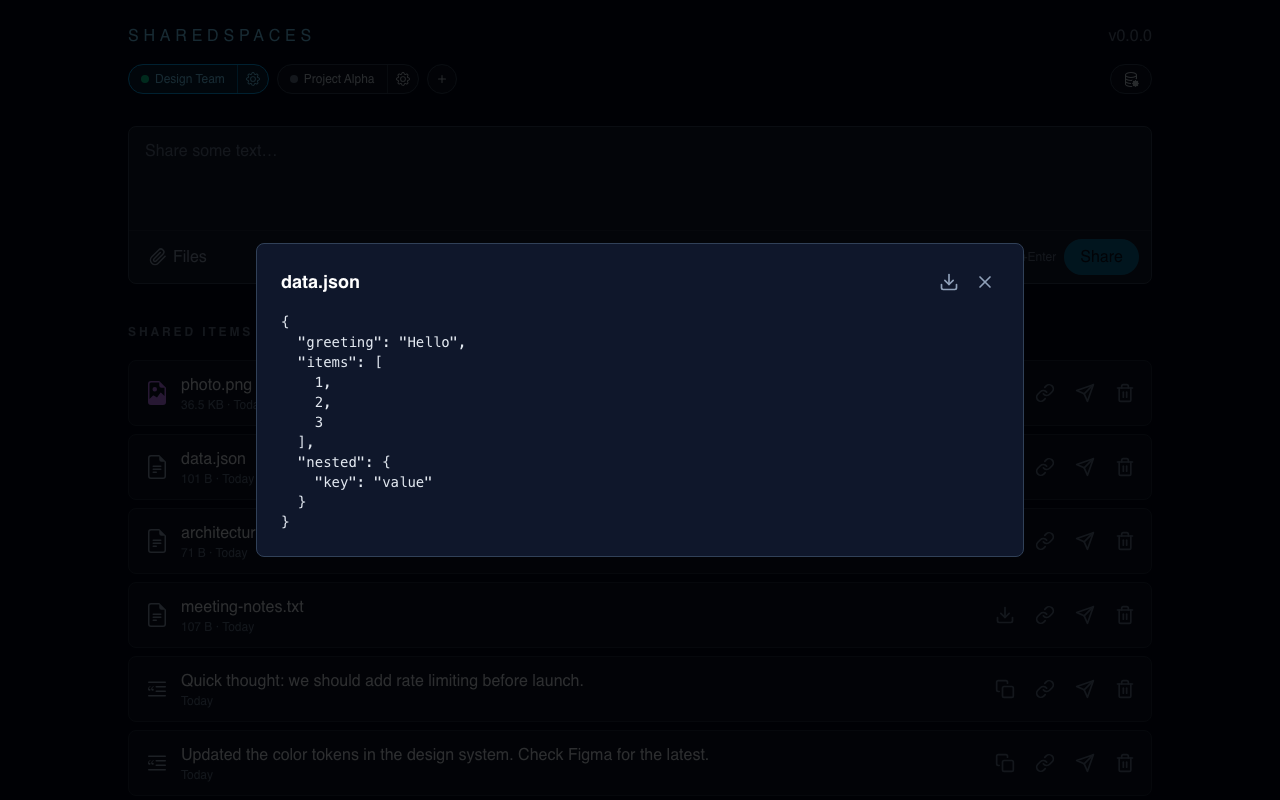
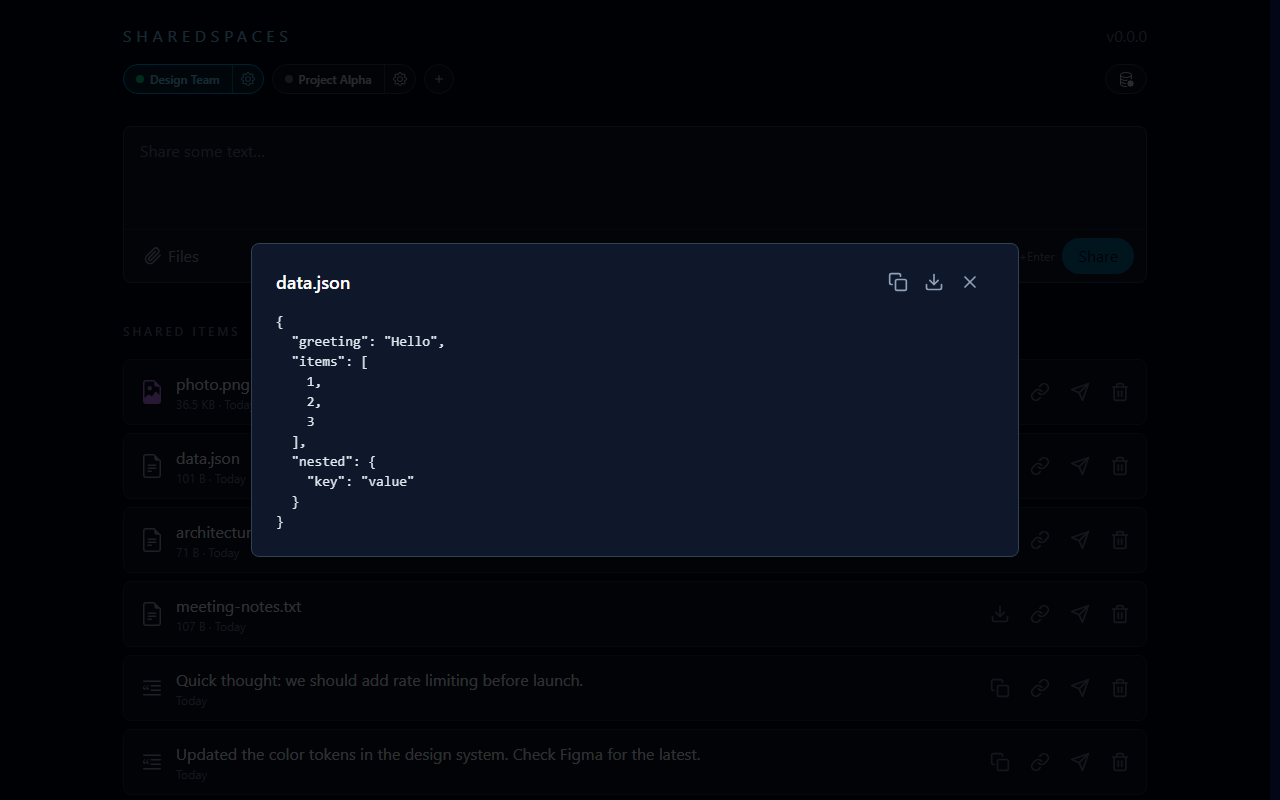
feat(client): add copy content button to text file preview modal

diff --git a/src/SharedSpaces.Client/src/features/space-view/space-view.ts b/src/SharedSpaces.Client/src/features/space-view/space-view.ts
@@ -189,6 +189,7 @@ export class SpaceView extends BaseElement {
   @state() private filePreviewText: string | null = null;
   @state() private filePreviewLoading = false;
   @state() private filePreviewError = '';
+  @state() private filePreviewTextCopied = false;
   @state() private shareModalItem: SpaceItemResponse | null = null;
   @state() private shareModalLinks: SharedLinkResponse[] = [];
   @state() private shareModalLoading = false;
@@ -1933,6 +1934,20 @@ export class SpaceView extends BaseElement {
     this.filePreviewText = null;
     this.filePreviewLoading = false;
     this.filePreviewError = '';
+    this.filePreviewTextCopied = false;
+  };
+
+  private handleCopyTextPreview = async () => {
+    if (!this.filePreviewText) return;
+    try {
+      await navigator.clipboard.writeText(this.filePreviewText);
+      this.filePreviewTextCopied = true;
+      setTimeout(() => {
+        this.filePreviewTextCopied = false;
+      }, 1500);
+    } catch {
+      // Clipboard API may fail in insecure contexts; silently ignore.
+    }
   };
 
   private openTransferModal(item: SpaceItemResponse) {
@@ -3219,6 +3234,20 @@ export class SpaceView extends BaseElement {
               ${this.filePreviewItem.content}
             </h3>
             <div class="flex shrink-0 items-center gap-2">
+              ${this.filePreviewType === 'text' && this.filePreviewText != null
+                ? html`
+                    <button
+                      @click=${this.handleCopyTextPreview}
+                      class="rounded p-1 text-slate-400 transition hover:text-white"
+                      title=${this.filePreviewTextCopied ? 'Copied!' : 'Copy content'}
+                      aria-label=${this.filePreviewTextCopied ? 'Copied to clipboard' : 'Copy file content to clipboard'}
+                    >
+                      ${this.filePreviewTextCopied
+                        ? html`<svg xmlns="http://www.w3.org/2000/svg" width="20" height="20" viewBox="0 0 24 24" fill="none" stroke="currentColor" stroke-width="2" stroke-linecap="round" stroke-linejoin="round" class="text-emerald-400"><polyline points="20 6 9 17 4 12"></polyline></svg>`
+                        : html`<svg xmlns="http://www.w3.org/2000/svg" width="20" height="20" viewBox="0 0 24 24" fill="none" stroke="currentColor" stroke-width="2" stroke-linecap="round" stroke-linejoin="round"><rect x="9" y="9" width="13" height="13" rx="2" ry="2"></rect><path d="M5 15H4a2 2 0 0 1-2-2V4a2 2 0 0 1 2-2h9a2 2 0 0 1 2 2v1"></path></svg>`}
+                    </button>
+                  `
+                : nothing}
               <button
                 @click=${() => this.handleDownload(this.filePreviewItem!)}
                 class="rounded p-1 text-slate-400 transition hover:text-white"
